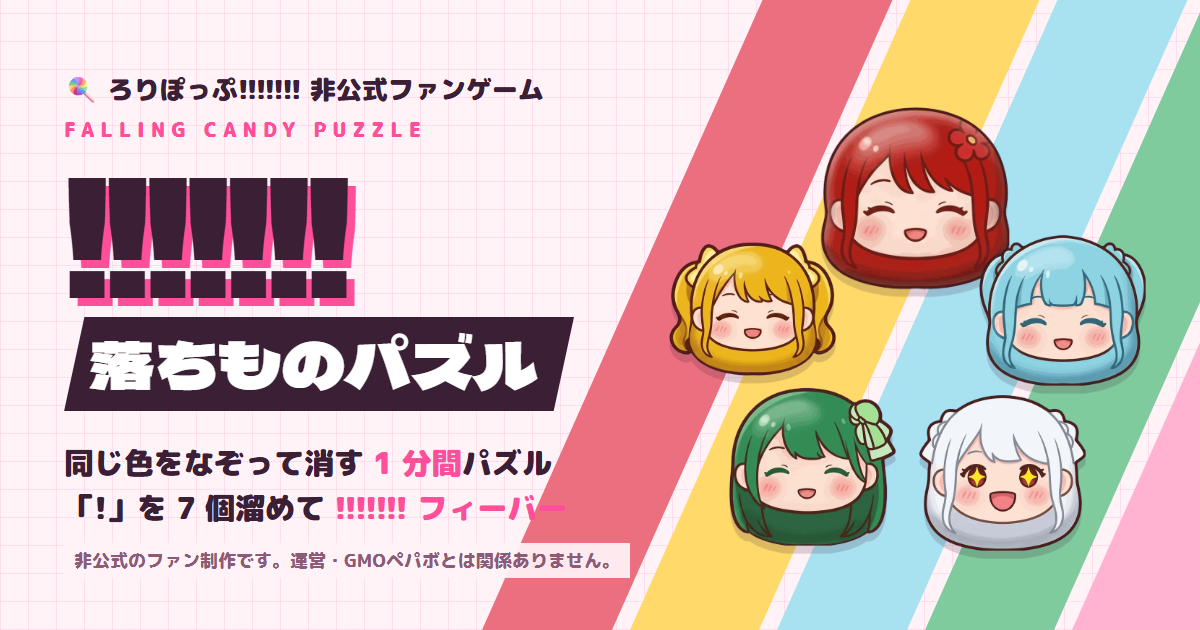
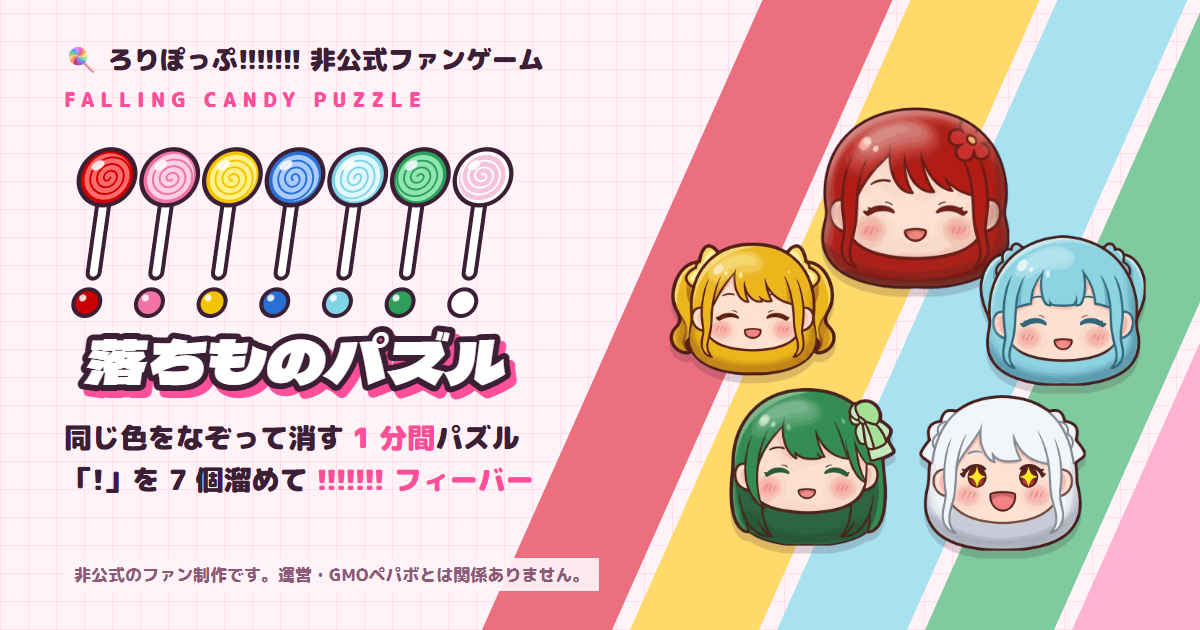
タイトルロゴを SVG で作り、OG 画像もそろえる
- 「!」7 個をメンバーカラー 7 色（卒業生を含む、アー写の投稿順）のロリポップにし、「落ちものパズル」を縁取り文字で組んだ
- index.html にインライン SVG で埋め込み（Web フォントを効かせるため）。飴が順に跳ね、動きを減らす設定では止まる
- scripts/make_logo.py で index.html と scripts/og.html の両方を作り直せる。og.png を撮り直し

Claude-Session: https://claude.ai/code/session_01UjdfkFMso5i5bRvbcA6sUN

Changed region(s): [[0.0308, 0.0603, 0.4933, 0.8444], [0.0617, 0.8444, 0.5242, 0.9651]]

diff --git a/scripts/og.html b/scripts/og.html
@@ -20,14 +20,16 @@
   }
   .stripes { position: absolute; top: -60px; right: -140px; width: 720px; height: 760px; transform: skewX(-24deg); display: flex; gap: 18px; }
   .stripes i { flex: 1; }
-  .copy { position: absolute; left: 64px; top: 70px; width: 600px; }
+  .copy { position: absolute; left: 64px; top: 40px; width: 600px; }
   .eyebrow { margin: 0 0 6px; font-weight: 900; font-size: 26px; }
   .en { margin: 0 0 18px; color: var(--accent); font-weight: 900; font-size: 20px; letter-spacing: .3em; }
   .bang { margin: 0; font: 400 150px/0.9 "Dela Gothic One", sans-serif; letter-spacing: -0.04em; color: var(--ink); text-shadow: 8px 8px 0 var(--accent); }
   .name { display: inline-block; margin: 20px 0 0; padding: 10px 36px 14px 26px; background: var(--ink); color: #fff; font: 400 64px/1.1 "Dela Gothic One", sans-serif; clip-path: polygon(4% 0, 100% 0, 96% 100%, 0 100%); }
-  .lead { margin: 30px 0 0; font-weight: 900; font-size: 30px; line-height: 1.5; }
+  .logo { display: block; margin: 0 0 0 -10px; overflow: visible; }
+  .logo text { font-family: "Dela Gothic One", sans-serif; }
+  .lead { margin: 10px 0 0; font-weight: 900; font-size: 28px; line-height: 1.5; }
   .lead b { color: var(--accent); }
-  .note { position: absolute; left: 64px; bottom: 34px; font-weight: 800; font-size: 18px; color: #8d5a78; padding: 4px 10px; background: rgba(255,243,248,.92); }
+  .note { position: absolute; left: 64px; bottom: 22px; font-weight: 800; font-size: 17px; color: #8d5a78; padding: 4px 10px; background: rgba(255,243,248,.92); }
   .faces { position: absolute; right: 40px; top: 90px; width: 500px; height: 470px; }
   .faces img { position: absolute; width: var(--s); filter: drop-shadow(0 8px 0 rgba(59,31,53,.18)); }
 </style>
@@ -37,8 +39,7 @@
   <div class="copy">
     <p class="eyebrow">🍭 ろりぽっぷ!!!!!!! 非公式ファンゲーム</p>
     <p class="en">FALLING CANDY PUZZLE</p>
-    <p class="bang">!!!!!!!</p>
-    <p class="name">落ちものパズル</p>
+    <svg class="logo" width="480" viewBox="0 0 360 206" aria-hidden="true" xmlns="http://www.w3.org/2000/svg"><defs><clipPath id="logo-candy"><circle r="18"/></clipPath></defs><g class="logo-bangs" transform="translate(0 4) skewX(-8)"><g class="logo-pop" style="--i:0" transform="translate(44 0)"><rect x="-4.5" y="44" width="9" height="62" rx="4.5" fill="#fff" stroke="#3b1f35" stroke-width="3"/><circle cx="0" cy="30" r="21" fill="#cc0000" stroke="#3b1f35" stroke-width="3.2"/><path d="M0 0 A2.5 2.5 0 0 1 5.0 0 A5.0 5.0 0 0 1 -5.0 0 A7.5 7.5 0 0 1 10.0 0 A10.0 10.0 0 0 1 -10.0 0 A12.5 12.5 0 0 1 15.0 0 A15.0 15.0 0 0 1 -15.0 0 A17.5 17.5 0 0 1 20.0 0" transform="translate(0 30) rotate(0)" fill="none" stroke="#ff6b6b" stroke-width="3.6" stroke-linecap="round" clip-path="url(#logo-candy)"/><ellipse cx="-8" cy="21" rx="5" ry="3.2" fill="#fff" opacity=".85" transform="rotate(-30 -8 21)"/><circle cx="-2" cy="124" r="10" fill="#cc0000" stroke="#3b1f35" stroke-width="3"/><circle cx="-5.5" cy="120.5" r="2.6" fill="#fff" opacity=".85"/></g><g class="logo-pop" style="--i:1" transform="translate(91 0)"><rect x="-4.5" y="44" width="9" height="62" rx="4.5" fill="#fff" stroke="#3b1f35" stroke-width="3"/><circle cx="0" cy="30" r="21" fill="#f172a3" stroke="#3b1f35" stroke-width="3.2"/><path d="M0 0 A2.5 2.5 0 0 1 5.0 0 A5.0 5.0 0 0 1 -5.0 0 A7.5 7.5 0 0 1 10.0 0 A10.0 10.0 0 0 1 -10.0 0 A12.5 12.5 0 0 1 15.0 0 A15.0 15.0 0 0 1 -15.0 0 A17.5 17.5 0 0 1 20.0 0" transform="translate(0 30) rotate(40)" fill="none" stroke="#ffd0e2" stroke-width="3.6" stroke-linecap="round" clip-path="url(#logo-candy)"/><ellipse cx="-8" cy="21" rx="5" ry="3.2" fill="#fff" opacity=".85" transform="rotate(-30 -8 21)"/><circle cx="-2" cy="124" r="10" fill="#f172a3" stroke="#3b1f35" stroke-width="3"/><circle cx="-5.5" cy="120.5" r="2.6" fill="#fff" opacity=".85"/></g><g class="logo-pop" style="--i:2" transform="translate(138 0)"><rect x="-4.5" y="44" width="9" height="62" rx="4.5" fill="#fff" stroke="#3b1f35" stroke-width="3"/><circle cx="0" cy="30" r="21" fill="#f5c400" stroke="#3b1f35" stroke-width="3.2"/><path d="M0 0 A2.5 2.5 0 0 1 5.0 0 A5.0 5.0 0 0 1 -5.0 0 A7.5 7.5 0 0 1 10.0 0 A10.0 10.0 0 0 1 -10.0 0 A12.5 12.5 0 0 1 15.0 0 A15.0 15.0 0 0 1 -15.0 0 A17.5 17.5 0 0 1 20.0 0" transform="translate(0 30) rotate(80)" fill="none" stroke="#fff08a" stroke-width="3.6" stroke-linecap="round" clip-path="url(#logo-candy)"/><ellipse cx="-8" cy="21" rx="5" ry="3.2" fill="#fff" opacity=".85" transform="rotate(-30 -8 21)"/><circle cx="-2" cy="124" r="10" fill="#f5c400" stroke="#3b1f35" stroke-width="3"/><circle cx="-5.5" cy="120.5" r="2.6" fill="#fff" opacity=".85"/></g><g class="logo-pop" style="--i:3" transform="translate(185 0)"><rect x="-4.5" y="44" width="9" height="62" rx="4.5" fill="#fff" stroke="#3b1f35" stroke-width="3"/><circle cx="0" cy="30" r="21" fill="#2a6fd6" stroke="#3b1f35" stroke-width="3.2"/><path d="M0 0 A2.5 2.5 0 0 1 5.0 0 A5.0 5.0 0 0 1 -5.0 0 A7.5 7.5 0 0 1 10.0 0 A10.0 10.0 0 0 1 -10.0 0 A12.5 12.5 0 0 1 15.0 0 A15.0 15.0 0 0 1 -15.0 0 A17.5 17.5 0 0 1 20.0 0" transform="translate(0 30) rotate(120)" fill="none" stroke="#a9ccff" stroke-width="3.6" stroke-linecap="round" clip-path="url(#logo-candy)"/><ellipse cx="-8" cy="21" rx="5" ry="3.2" fill="#fff" opacity=".85" transform="rotate(-30 -8 21)"/><circle cx="-2" cy="124" r="10" fill="#2a6fd6" stroke="#3b1f35" stroke-width="3"/><circle cx="-5.5" cy="120.5" r="2.6" fill="#fff" opacity=".85"/></g><g class="logo-pop" style="--i:4" transform="translate(232 0)"><rect x="-4.5" y="44" width="9" height="62" rx="4.5" fill="#fff" stroke="#3b1f35" stroke-width="3"/><circle cx="0" cy="30" r="21" fill="#7fd4e8" stroke="#3b1f35" stroke-width="3.2"/><path d="M0 0 A2.5 2.5 0 0 1 5.0 0 A5.0 5.0 0 0 1 -5.0 0 A7.5 7.5 0 0 1 10.0 0 A10.0 10.0 0 0 1 -10.0 0 A12.5 12.5 0 0 1 15.0 0 A15.0 15.0 0 0 1 -15.0 0 A17.5 17.5 0 0 1 20.0 0" transform="translate(0 30) rotate(160)" fill="none" stroke="#e0f8ff" stroke-width="3.6" stroke-linecap="round" clip-path="url(#logo-candy)"/><ellipse cx="-8" cy="21" rx="5" ry="3.2" fill="#fff" opacity=".85" transform="rotate(-30 -8 21)"/><circle cx="-2" cy="124" r="10" fill="#7fd4e8" stroke="#3b1f35" stroke-width="3"/><circle cx="-5.5" cy="120.5" r="2.6" fill="#fff" opacity=".85"/></g><g class="logo-pop" style="--i:5" transform="translate(279 0)"><rect x="-4.5" y="44" width="9" height="62" rx="4.5" fill="#fff" stroke="#3b1f35" stroke-width="3"/><circle cx="0" cy="30" r="21" fill="#2e9e5b" stroke="#3b1f35" stroke-width="3.2"/><path d="M0 0 A2.5 2.5 0 0 1 5.0 0 A5.0 5.0 0 0 1 -5.0 0 A7.5 7.5 0 0 1 10.0 0 A10.0 10.0 0 0 1 -10.0 0 A12.5 12.5 0 0 1 15.0 0 A15.0 15.0 0 0 1 -15.0 0 A17.5 17.5 0 0 1 20.0 0" transform="translate(0 30) rotate(200)" fill="none" stroke="#8fe6b2" stroke-width="3.6" stroke-linecap="round" clip-path="url(#logo-candy)"/><ellipse cx="-8" cy="21" rx="5" ry="3.2" fill="#fff" opacity=".85" transform="rotate(-30 -8 21)"/><circle cx="-2" cy="124" r="10" fill="#2e9e5b" stroke="#3b1f35" stroke-width="3"/><circle cx="-5.5" cy="120.5" r="2.6" fill="#fff" opacity=".85"/></g><g class="logo-pop" style="--i:6" transform="translate(326 0)"><rect x="-4.5" y="44" width="9" height="62" rx="4.5" fill="#fff" stroke="#3b1f35" stroke-width="3"/><circle cx="0" cy="30" r="21" fill="#ffffff" stroke="#3b1f35" stroke-width="3.2"/><path d="M0 0 A2.5 2.5 0 0 1 5.0 0 A5.0 5.0 0 0 1 -5.0 0 A7.5 7.5 0 0 1 10.0 0 A10.0 10.0 0 0 1 -10.0 0 A12.5 12.5 0 0 1 15.0 0 A15.0 15.0 0 0 1 -15.0 0 A17.5 17.5 0 0 1 20.0 0" transform="translate(0 30) rotate(240)" fill="none" stroke="#f6c4da" stroke-width="3.6" stroke-linecap="round" clip-path="url(#logo-candy)"/><ellipse cx="-8" cy="21" rx="5" ry="3.2" fill="#fff" opacity=".85" transform="rotate(-30 -8 21)"/><circle cx="-2" cy="124" r="10" fill="#ffffff" stroke="#3b1f35" stroke-width="3"/><circle cx="-5.5" cy="120.5" r="2.6" fill="#fff" opacity=".85"/></g></g><g transform="translate(180 190) skewX(-8)"><text x="5" y="5" font-family="Dela Gothic One, M PLUS Rounded 1c, sans-serif" font-size="45" text-anchor="middle" fill="#ff4f9a" stroke="#ff4f9a" stroke-width="9" stroke-linejoin="round">落ちものパズル</text><text font-family="Dela Gothic One, M PLUS Rounded 1c, sans-serif" font-size="45" text-anchor="middle" fill="#fff" stroke="#3b1f35" stroke-width="9" stroke-linejoin="round" paint-order="stroke fill">落ちものパズル</text></g></svg>
     <p class="lead">同じ色をなぞって消す <b>1 分間</b>パズル<br>「!」を 7 個溜めて <b>!!!!!!! フィーバー</b></p>
   </div>
   <p class="note">非公式のファン制作です。運営・GMOペパボとは関係ありません。</p>

diff --git a/index.html b/index.html
@@ -79,10 +79,9 @@
       <div class="title-head">
         <span class="deco-stripes" aria-hidden="true"></span>
         <p class="eyebrow" data-part="T1"><span class="ja">🍭 </span>ろりぽっぷ!!!!!!! 非公式ファンゲーム</p>
-        <h1 class="title-logo" data-part="T2">
+        <h1 class="title-logo" data-part="T2" aria-label="!!!!!!! 落ちものパズル">
           <small class="en">FALLING CANDY PUZZLE</small>
-          <span class="title-bang" aria-label="!!!!!!!"><i>!</i><i>!</i><i>!</i><i>!</i><i>!</i><i>!</i><i>!</i></span>
-          <span class="title-name">落ちものパズル</span>
+          <svg class="logo" viewBox="0 0 360 206" aria-hidden="true" xmlns="http://www.w3.org/2000/svg"><defs><clipPath id="logo-candy"><circle r="18"/></clipPath></defs><g class="logo-bangs" transform="translate(0 4) skewX(-8)"><g class="logo-pop" style="--i:0" transform="translate(44 0)"><rect x="-4.5" y="44" width="9" height="62" rx="4.5" fill="#fff" stroke="#3b1f35" stroke-width="3"/><circle cx="0" cy="30" r="21" fill="#cc0000" stroke="#3b1f35" stroke-width="3.2"/><path d="M0 0 A2.5 2.5 0 0 1 5.0 0 A5.0 5.0 0 0 1 -5.0 0 A7.5 7.5 0 0 1 10.0 0 A10.0 10.0 0 0 1 -10.0 0 A12.5 12.5 0 0 1 15.0 0 A15.0 15.0 0 0 1 -15.0 0 A17.5 17.5 0 0 1 20.0 0" transform="translate(0 30) rotate(0)" fill="none" stroke="#ff6b6b" stroke-width="3.6" stroke-linecap="round" clip-path="url(#logo-candy)"/><ellipse cx="-8" cy="21" rx="5" ry="3.2" fill="#fff" opacity=".85" transform="rotate(-30 -8 21)"/><circle cx="-2" cy="124" r="10" fill="#cc0000" stroke="#3b1f35" stroke-width="3"/><circle cx="-5.5" cy="120.5" r="2.6" fill="#fff" opacity=".85"/></g><g class="logo-pop" style="--i:1" transform="translate(91 0)"><rect x="-4.5" y="44" width="9" height="62" rx="4.5" fill="#fff" stroke="#3b1f35" stroke-width="3"/><circle cx="0" cy="30" r="21" fill="#f172a3" stroke="#3b1f35" stroke-width="3.2"/><path d="M0 0 A2.5 2.5 0 0 1 5.0 0 A5.0 5.0 0 0 1 -5.0 0 A7.5 7.5 0 0 1 10.0 0 A10.0 10.0 0 0 1 -10.0 0 A12.5 12.5 0 0 1 15.0 0 A15.0 15.0 0 0 1 -15.0 0 A17.5 17.5 0 0 1 20.0 0" transform="translate(0 30) rotate(40)" fill="none" stroke="#ffd0e2" stroke-width="3.6" stroke-linecap="round" clip-path="url(#logo-candy)"/><ellipse cx="-8" cy="21" rx="5" ry="3.2" fill="#fff" opacity=".85" transform="rotate(-30 -8 21)"/><circle cx="-2" cy="124" r="10" fill="#f172a3" stroke="#3b1f35" stroke-width="3"/><circle cx="-5.5" cy="120.5" r="2.6" fill="#fff" opacity=".85"/></g><g class="logo-pop" style="--i:2" transform="translate(138 0)"><rect x="-4.5" y="44" width="9" height="62" rx="4.5" fill="#fff" stroke="#3b1f35" stroke-width="3"/><circle cx="0" cy="30" r="21" fill="#f5c400" stroke="#3b1f35" stroke-width="3.2"/><path d="M0 0 A2.5 2.5 0 0 1 5.0 0 A5.0 5.0 0 0 1 -5.0 0 A7.5 7.5 0 0 1 10.0 0 A10.0 10.0 0 0 1 -10.0 0 A12.5 12.5 0 0 1 15.0 0 A15.0 15.0 0 0 1 -15.0 0 A17.5 17.5 0 0 1 20.0 0" transform="translate(0 30) rotate(80)" fill="none" stroke="#fff08a" stroke-width="3.6" stroke-linecap="round" clip-path="url(#logo-candy)"/><ellipse cx="-8" cy="21" rx="5" ry="3.2" fill="#fff" opacity=".85" transform="rotate(-30 -8 21)"/><circle cx="-2" cy="124" r="10" fill="#f5c400" stroke="#3b1f35" stroke-width="3"/><circle cx="-5.5" cy="120.5" r="2.6" fill="#fff" opacity=".85"/></g><g class="logo-pop" style="--i:3" transform="translate(185 0)"><rect x="-4.5" y="44" width="9" height="62" rx="4.5" fill="#fff" stroke="#3b1f35" stroke-width="3"/><circle cx="0" cy="30" r="21" fill="#2a6fd6" stroke="#3b1f35" stroke-width="3.2"/><path d="M0 0 A2.5 2.5 0 0 1 5.0 0 A5.0 5.0 0 0 1 -5.0 0 A7.5 7.5 0 0 1 10.0 0 A10.0 10.0 0 0 1 -10.0 0 A12.5 12.5 0 0 1 15.0 0 A15.0 15.0 0 0 1 -15.0 0 A17.5 17.5 0 0 1 20.0 0" transform="translate(0 30) rotate(120)" fill="none" stroke="#a9ccff" stroke-width="3.6" stroke-linecap="round" clip-path="url(#logo-candy)"/><ellipse cx="-8" cy="21" rx="5" ry="3.2" fill="#fff" opacity=".85" transform="rotate(-30 -8 21)"/><circle cx="-2" cy="124" r="10" fill="#2a6fd6" stroke="#3b1f35" stroke-width="3"/><circle cx="-5.5" cy="120.5" r="2.6" fill="#fff" opacity=".85"/></g><g class="logo-pop" style="--i:4" transform="translate(232 0)"><rect x="-4.5" y="44" width="9" height="62" rx="4.5" fill="#fff" stroke="#3b1f35" stroke-width="3"/><circle cx="0" cy="30" r="21" fill="#7fd4e8" stroke="#3b1f35" stroke-width="3.2"/><path d="M0 0 A2.5 2.5 0 0 1 5.0 0 A5.0 5.0 0 0 1 -5.0 0 A7.5 7.5 0 0 1 10.0 0 A10.0 10.0 0 0 1 -10.0 0 A12.5 12.5 0 0 1 15.0 0 A15.0 15.0 0 0 1 -15.0 0 A17.5 17.5 0 0 1 20.0 0" transform="translate(0 30) rotate(160)" fill="none" stroke="#e0f8ff" stroke-width="3.6" stroke-linecap="round" clip-path="url(#logo-candy)"/><ellipse cx="-8" cy="21" rx="5" ry="3.2" fill="#fff" opacity=".85" transform="rotate(-30 -8 21)"/><circle cx="-2" cy="124" r="10" fill="#7fd4e8" stroke="#3b1f35" stroke-width="3"/><circle cx="-5.5" cy="120.5" r="2.6" fill="#fff" opacity=".85"/></g><g class="logo-pop" style="--i:5" transform="translate(279 0)"><rect x="-4.5" y="44" width="9" height="62" rx="4.5" fill="#fff" stroke="#3b1f35" stroke-width="3"/><circle cx="0" cy="30" r="21" fill="#2e9e5b" stroke="#3b1f35" stroke-width="3.2"/><path d="M0 0 A2.5 2.5 0 0 1 5.0 0 A5.0 5.0 0 0 1 -5.0 0 A7.5 7.5 0 0 1 10.0 0 A10.0 10.0 0 0 1 -10.0 0 A12.5 12.5 0 0 1 15.0 0 A15.0 15.0 0 0 1 -15.0 0 A17.5 17.5 0 0 1 20.0 0" transform="translate(0 30) rotate(200)" fill="none" stroke="#8fe6b2" stroke-width="3.6" stroke-linecap="round" clip-path="url(#logo-candy)"/><ellipse cx="-8" cy="21" rx="5" ry="3.2" fill="#fff" opacity=".85" transform="rotate(-30 -8 21)"/><circle cx="-2" cy="124" r="10" fill="#2e9e5b" stroke="#3b1f35" stroke-width="3"/><circle cx="-5.5" cy="120.5" r="2.6" fill="#fff" opacity=".85"/></g><g class="logo-pop" style="--i:6" transform="translate(326 0)"><rect x="-4.5" y="44" width="9" height="62" rx="4.5" fill="#fff" stroke="#3b1f35" stroke-width="3"/><circle cx="0" cy="30" r="21" fill="#ffffff" stroke="#3b1f35" stroke-width="3.2"/><path d="M0 0 A2.5 2.5 0 0 1 5.0 0 A5.0 5.0 0 0 1 -5.0 0 A7.5 7.5 0 0 1 10.0 0 A10.0 10.0 0 0 1 -10.0 0 A12.5 12.5 0 0 1 15.0 0 A15.0 15.0 0 0 1 -15.0 0 A17.5 17.5 0 0 1 20.0 0" transform="translate(0 30) rotate(240)" fill="none" stroke="#f6c4da" stroke-width="3.6" stroke-linecap="round" clip-path="url(#logo-candy)"/><ellipse cx="-8" cy="21" rx="5" ry="3.2" fill="#fff" opacity=".85" transform="rotate(-30 -8 21)"/><circle cx="-2" cy="124" r="10" fill="#ffffff" stroke="#3b1f35" stroke-width="3"/><circle cx="-5.5" cy="120.5" r="2.6" fill="#fff" opacity=".85"/></g></g><g transform="translate(180 190) skewX(-8)"><text x="5" y="5" font-family="Dela Gothic One, M PLUS Rounded 1c, sans-serif" font-size="45" text-anchor="middle" fill="#ff4f9a" stroke="#ff4f9a" stroke-width="9" stroke-linejoin="round">落ちものパズル</text><text font-family="Dela Gothic One, M PLUS Rounded 1c, sans-serif" font-size="45" text-anchor="middle" fill="#fff" stroke="#3b1f35" stroke-width="9" stroke-linejoin="round" paint-order="stroke fill">落ちものパズル</text></g></svg>
         </h1>
         <p class="lead" data-part="T5">同じ色のロリポップを 3 つ以上なぞって消そう。<br>1 分間でどこまでいける？</p>
       </div>

diff --git a/css/themes/stylish.css b/css/themes/stylish.css
@@ -635,24 +635,29 @@
   letter-spacing: 0.3em;
 }
 
-[data-theme="stylish"] .title-bang {
+/* T2: the logo is an inline SVG (index.html) so it can use the page's web fonts */
+[data-theme="stylish"] .title-logo .logo {
   display: block;
-  margin-top: 2px;
-  color: var(--ink);
-  font: 400 clamp(64px, 20vw, 84px) / 1 var(--display);
-  letter-spacing: -0.02em;
-  transform: skewX(-12deg);
-  text-shadow: 6px 6px 0 var(--accent);
+  width: min(100%, 380px);
+  height: auto;
+  margin-top: 6px;
+  overflow: visible;
 }
 
-[data-theme="stylish"] .title-name {
-  display: inline-block;
-  margin-top: 10px;
-  padding: 6px 24px;
-  background: var(--ink);
-  color: #fff;
-  font: 400 clamp(24px, 7.4vw, 30px) / 1.2 var(--display);
-  clip-path: polygon(6% 0, 100% 0, 94% 100%, 0 100%);
+[data-theme="stylish"] .logo text {
+  font-family: var(--display);
+}
+
+/* The seven lollipops hop one after another */
+[data-theme="stylish"] .logo-pop > * {
+  animation: logo-hop 2.8s cubic-bezier(0.3, 0, 0.3, 1) infinite;
+  animation-delay: calc(var(--i) * 0.12s);
+}
+
+@keyframes logo-hop {
+  0%, 30%, 100% { translate: 0 0; }
+  12% { translate: 0 -7px; }
+  20% { translate: 0 1px; }
 }
 
 [data-theme="stylish"] .lead {
@@ -928,7 +933,8 @@
   [data-theme="stylish"] .best.new,
   [data-theme="stylish"] .screen-result.fx-in .result-pose,
   [data-theme="stylish"] .screen-result.fx-in .festival,
-  [data-theme="stylish"] .screen-result.fx-in .festival-rank {
+  [data-theme="stylish"] .screen-result.fx-in .festival-rank,
+  [data-theme="stylish"] .logo-pop > * {
     animation: none;
   }
 

diff --git a/css/base.css b/css/base.css
@@ -441,10 +441,6 @@ body {
   gap: var(--space-sm);
 }
 
-.title-bang i {
-  font-style: normal;
-}
-
 .switches {
   display: grid;
   grid-template-columns: 1fr 1fr;

diff --git a/scripts/make_logo.py b/scripts/make_logo.py
@@ -1,0 +1,50 @@
+"""Build the title logo (T2) as inline SVG and write it into index.html and scripts/og.html.
+
+usage: python scripts/make_logo.py   (repo root). Then re-shoot og.png (see scripts/og.html).
+The seven "!" are lollipops in the member colors of all seven members, graduates included,
+in the order of the official photos (lollpop_docs/design.md mc-*). Don't swap in candy colors.
+"""
+import re, sys
+INK = '#3b1f35'
+COLORS = [('#cc0000', '#ff6b6b'), ('#f172a3', '#ffd0e2'), ('#f5c400', '#fff08a'), ('#2a6fd6', '#a9ccff'),
+          ('#7fd4e8', '#e0f8ff'), ('#2e9e5b', '#8fe6b2'), ('#ffffff', '#f6c4da')]
+def swirl(r):
+    # an Archimedean-looking spiral from half-circle arcs, clipped by the candy
+    d = 'M0 0'; s = 1; step = r / 4.2; k = 1
+    rad = step / 2
+    x = 0
+    for i in range(7):
+        nx = x + (2 * rad) * s
+        d += f' A{rad:.1f} {rad:.1f} 0 0 1 {nx:.1f} 0'
+        x = nx; s = -s; rad += step / 2
+    return d
+parts = []
+parts.append('<svg class="logo" viewBox="0 0 360 206" aria-hidden="true" xmlns="http://www.w3.org/2000/svg">')
+parts.append('<defs><clipPath id="logo-candy"><circle r="18"/></clipPath></defs>')
+parts.append('<g class="logo-bangs" transform="translate(0 4) skewX(-8)">')
+for i, (c, s) in enumerate(COLORS):
+    x = 44 + i * 47
+    parts.append(f'<g class="logo-pop" style="--i:{i}" transform="translate({x} 0)">')
+    # stick (the bar of "!")
+    parts.append(f'<rect x="-4.5" y="44" width="9" height="62" rx="4.5" fill="#fff" stroke="{INK}" stroke-width="3"/>')
+    # candy head
+    parts.append(f'<circle cx="0" cy="30" r="21" fill="{c}" stroke="{INK}" stroke-width="3.2"/>')
+    parts.append(f'<path d="{swirl(21)}" transform="translate(0 30) rotate({i * 40})" fill="none" stroke="{s}" stroke-width="3.6" stroke-linecap="round" clip-path="url(#logo-candy)"/>')
+    parts.append(f'<ellipse cx="-8" cy="21" rx="5" ry="3.2" fill="#fff" opacity=".85" transform="rotate(-30 -8 21)"/>')
+    # dot of "!"
+    parts.append(f'<circle cx="-2" cy="124" r="10" fill="{c}" stroke="{INK}" stroke-width="3"/>')
+    parts.append(f'<circle cx="-5.5" cy="120.5" r="2.6" fill="#fff" opacity=".85"/>')
+    parts.append('</g>')
+parts.append('</g>')
+T = 'font-family="Dela Gothic One, M PLUS Rounded 1c, sans-serif" font-size="45" text-anchor="middle"'
+parts.append(f'<g transform="translate(180 190) skewX(-8)">')
+parts.append(f'<text x="5" y="5" {T} fill="#ff4f9a" stroke="#ff4f9a" stroke-width="9" stroke-linejoin="round">落ちものパズル</text>')
+parts.append(f'<text {T} fill="#fff" stroke="{INK}" stroke-width="9" stroke-linejoin="round" paint-order="stroke fill">落ちものパズル</text>')
+parts.append('</g></svg>')
+svg = ''.join(parts)
+for p, attr in [('index.html', ''), ('scripts/og.html', ' width="480"')]:
+    h = open(p, encoding='utf-8').read()
+    h, n = re.subn(r'<svg class="logo".*?</svg>', lambda m: svg.replace('class="logo"', 'class="logo"' + attr), h, flags=re.S)
+    assert n == 1, f'{p}: logo not found'
+    open(p, 'w', encoding='utf-8', newline='\n').write(h)
+    print(p, 'updated')
